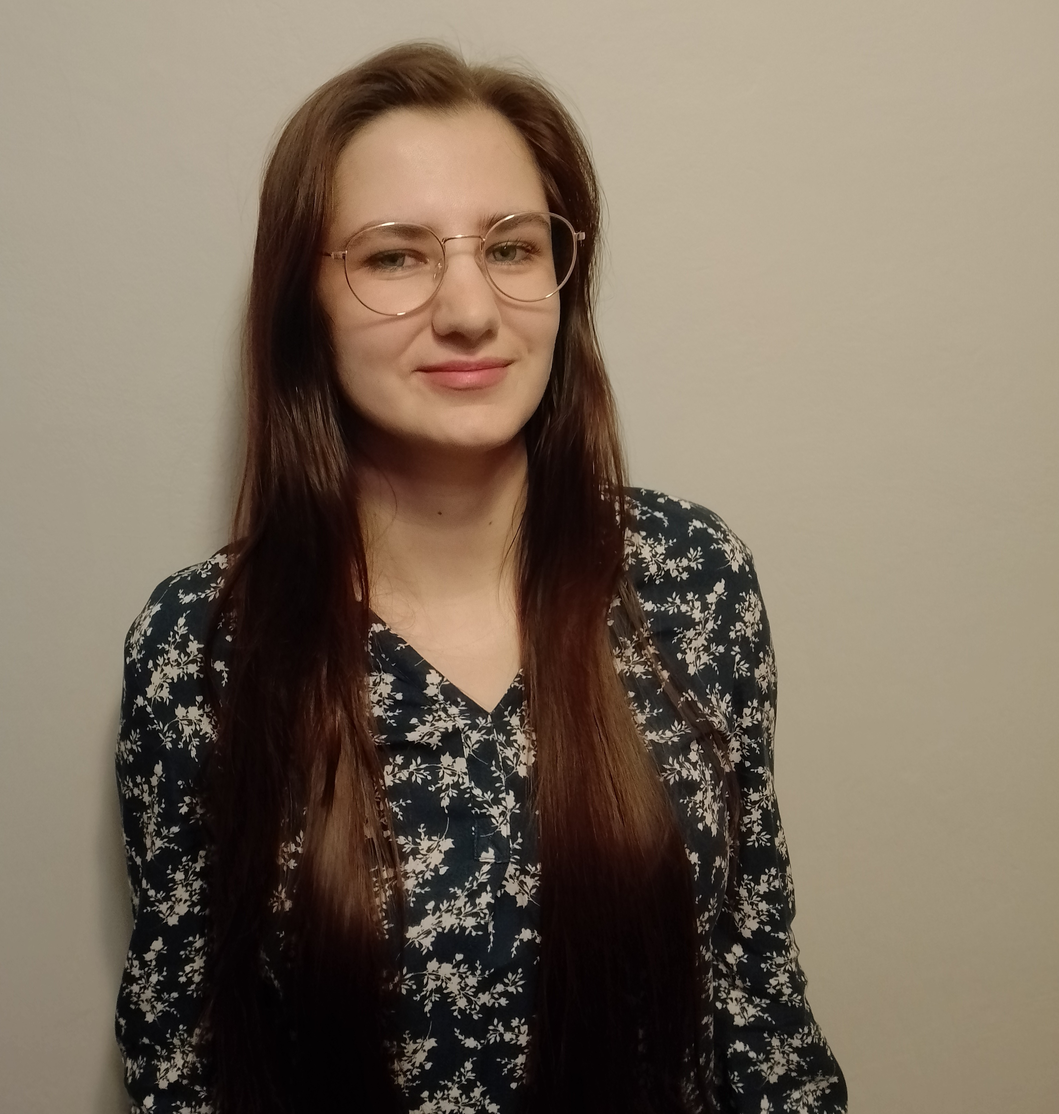
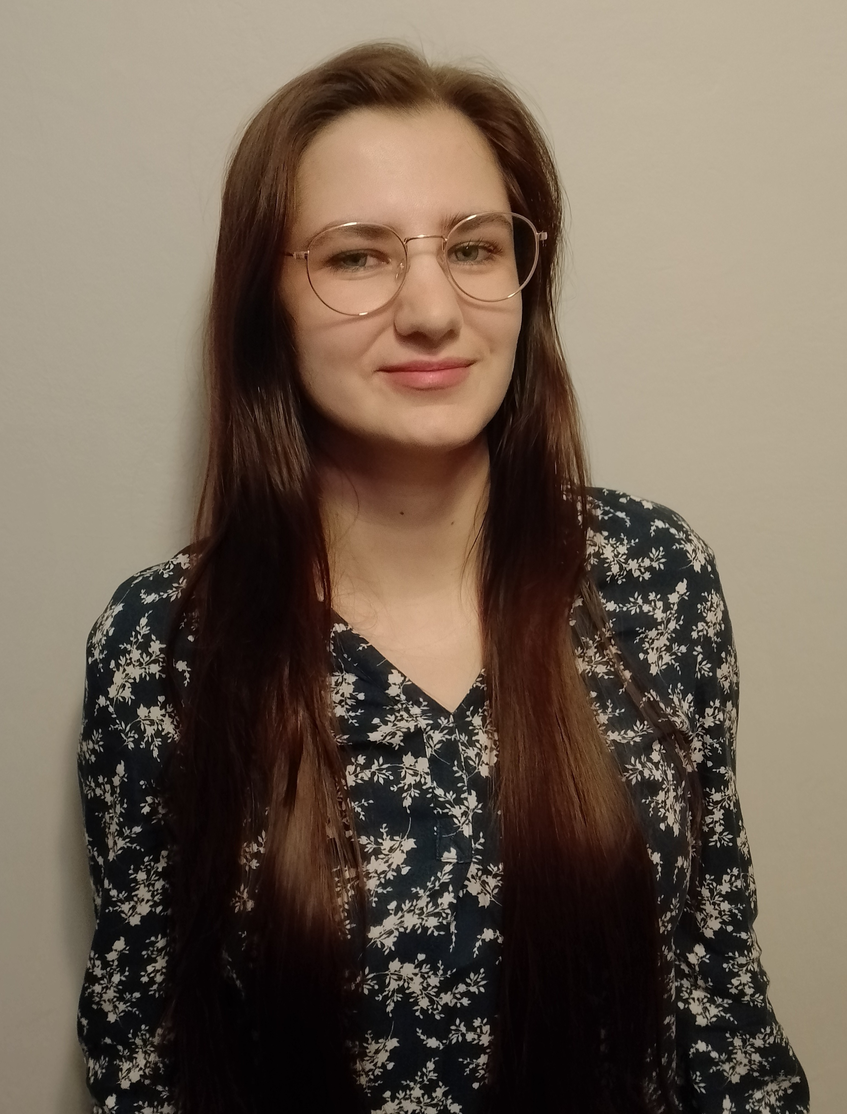
project update

diff --git a/style.css b/style.css
@@ -13,12 +13,13 @@ body {
 }
 
 aside {
-  width: 370px;
+  width: 350px;
   background: #394fa9b0;
 }
 
 .cv-photo {
   margin-top: 0px;
+  width: 350px;
 }
 
 .contact-links {
@@ -33,18 +34,18 @@ aside {
 }
 
 .contact-block {
-  margin-top: 60px;
-  margin-left: 20px;
+  margin-top: 40px;
+  margin-left: 30px;
 }
 
 .skills-block {
-  margin-top: 60px;
-  margin-left: 20px;
+  margin-top: 40px;
+  margin-left: 30px;
 }
 
 .certificates-block {
-  margin-top: 60px;
-  margin-left: 20px;
+  margin-top: 40px;
+  margin-left: 30px;
 }
 
 .header-secondary {
@@ -101,10 +102,10 @@ h1 {
 .description {
   font-weight: 400;
   font-size: 12px;
-  line-height: 20px;
+  line-height: 15px;
   color: #595959;
-  margin-top: 40px;
-  margin-bottom: 20px;
+  margin-top: 30px;
+  margin-bottom: 15px;
   width: 600px;
 }
 

diff --git a/index.html b/index.html
@@ -39,7 +39,7 @@
           </p>
         </div>
         <div class="skills-block">
-          <h2 class="header-secondary">Podstawowe umiejętności</h2>
+          <h2 class="header-secondary">Umiejętności</h2>
           <ul class="list-secondary">
             <li><span class="list-secondary-item">Jira</span></li>
             <li>
